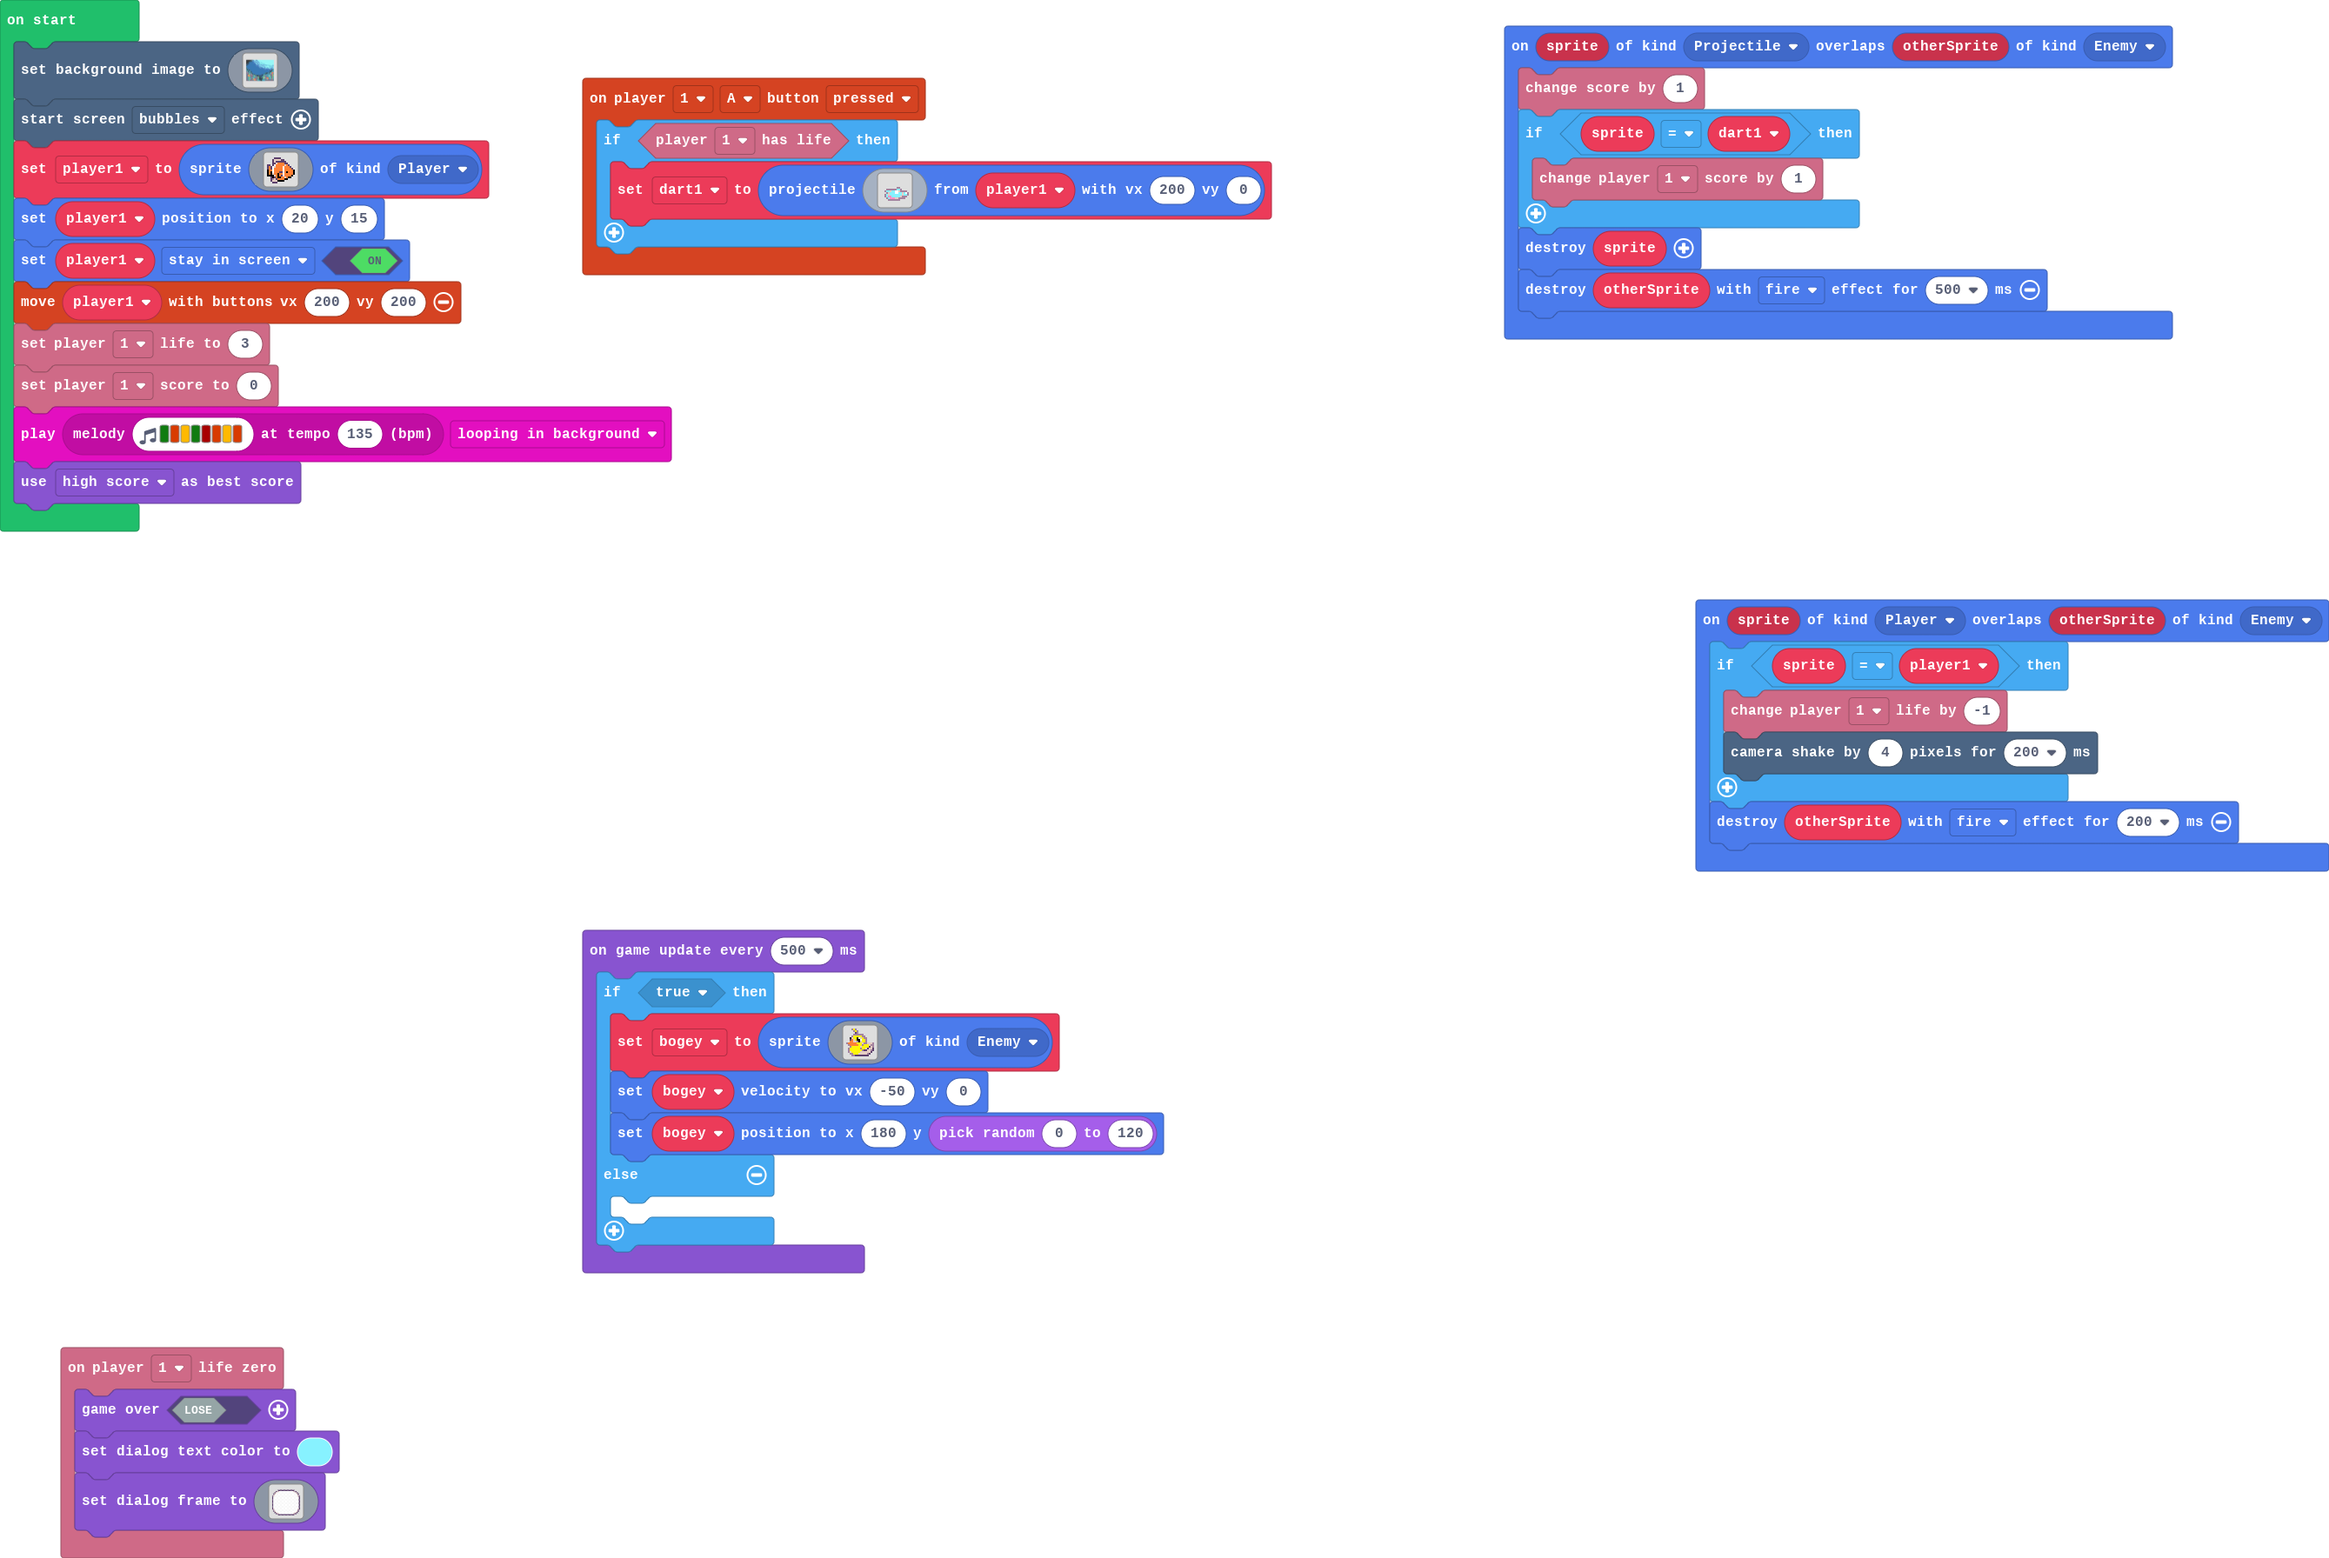
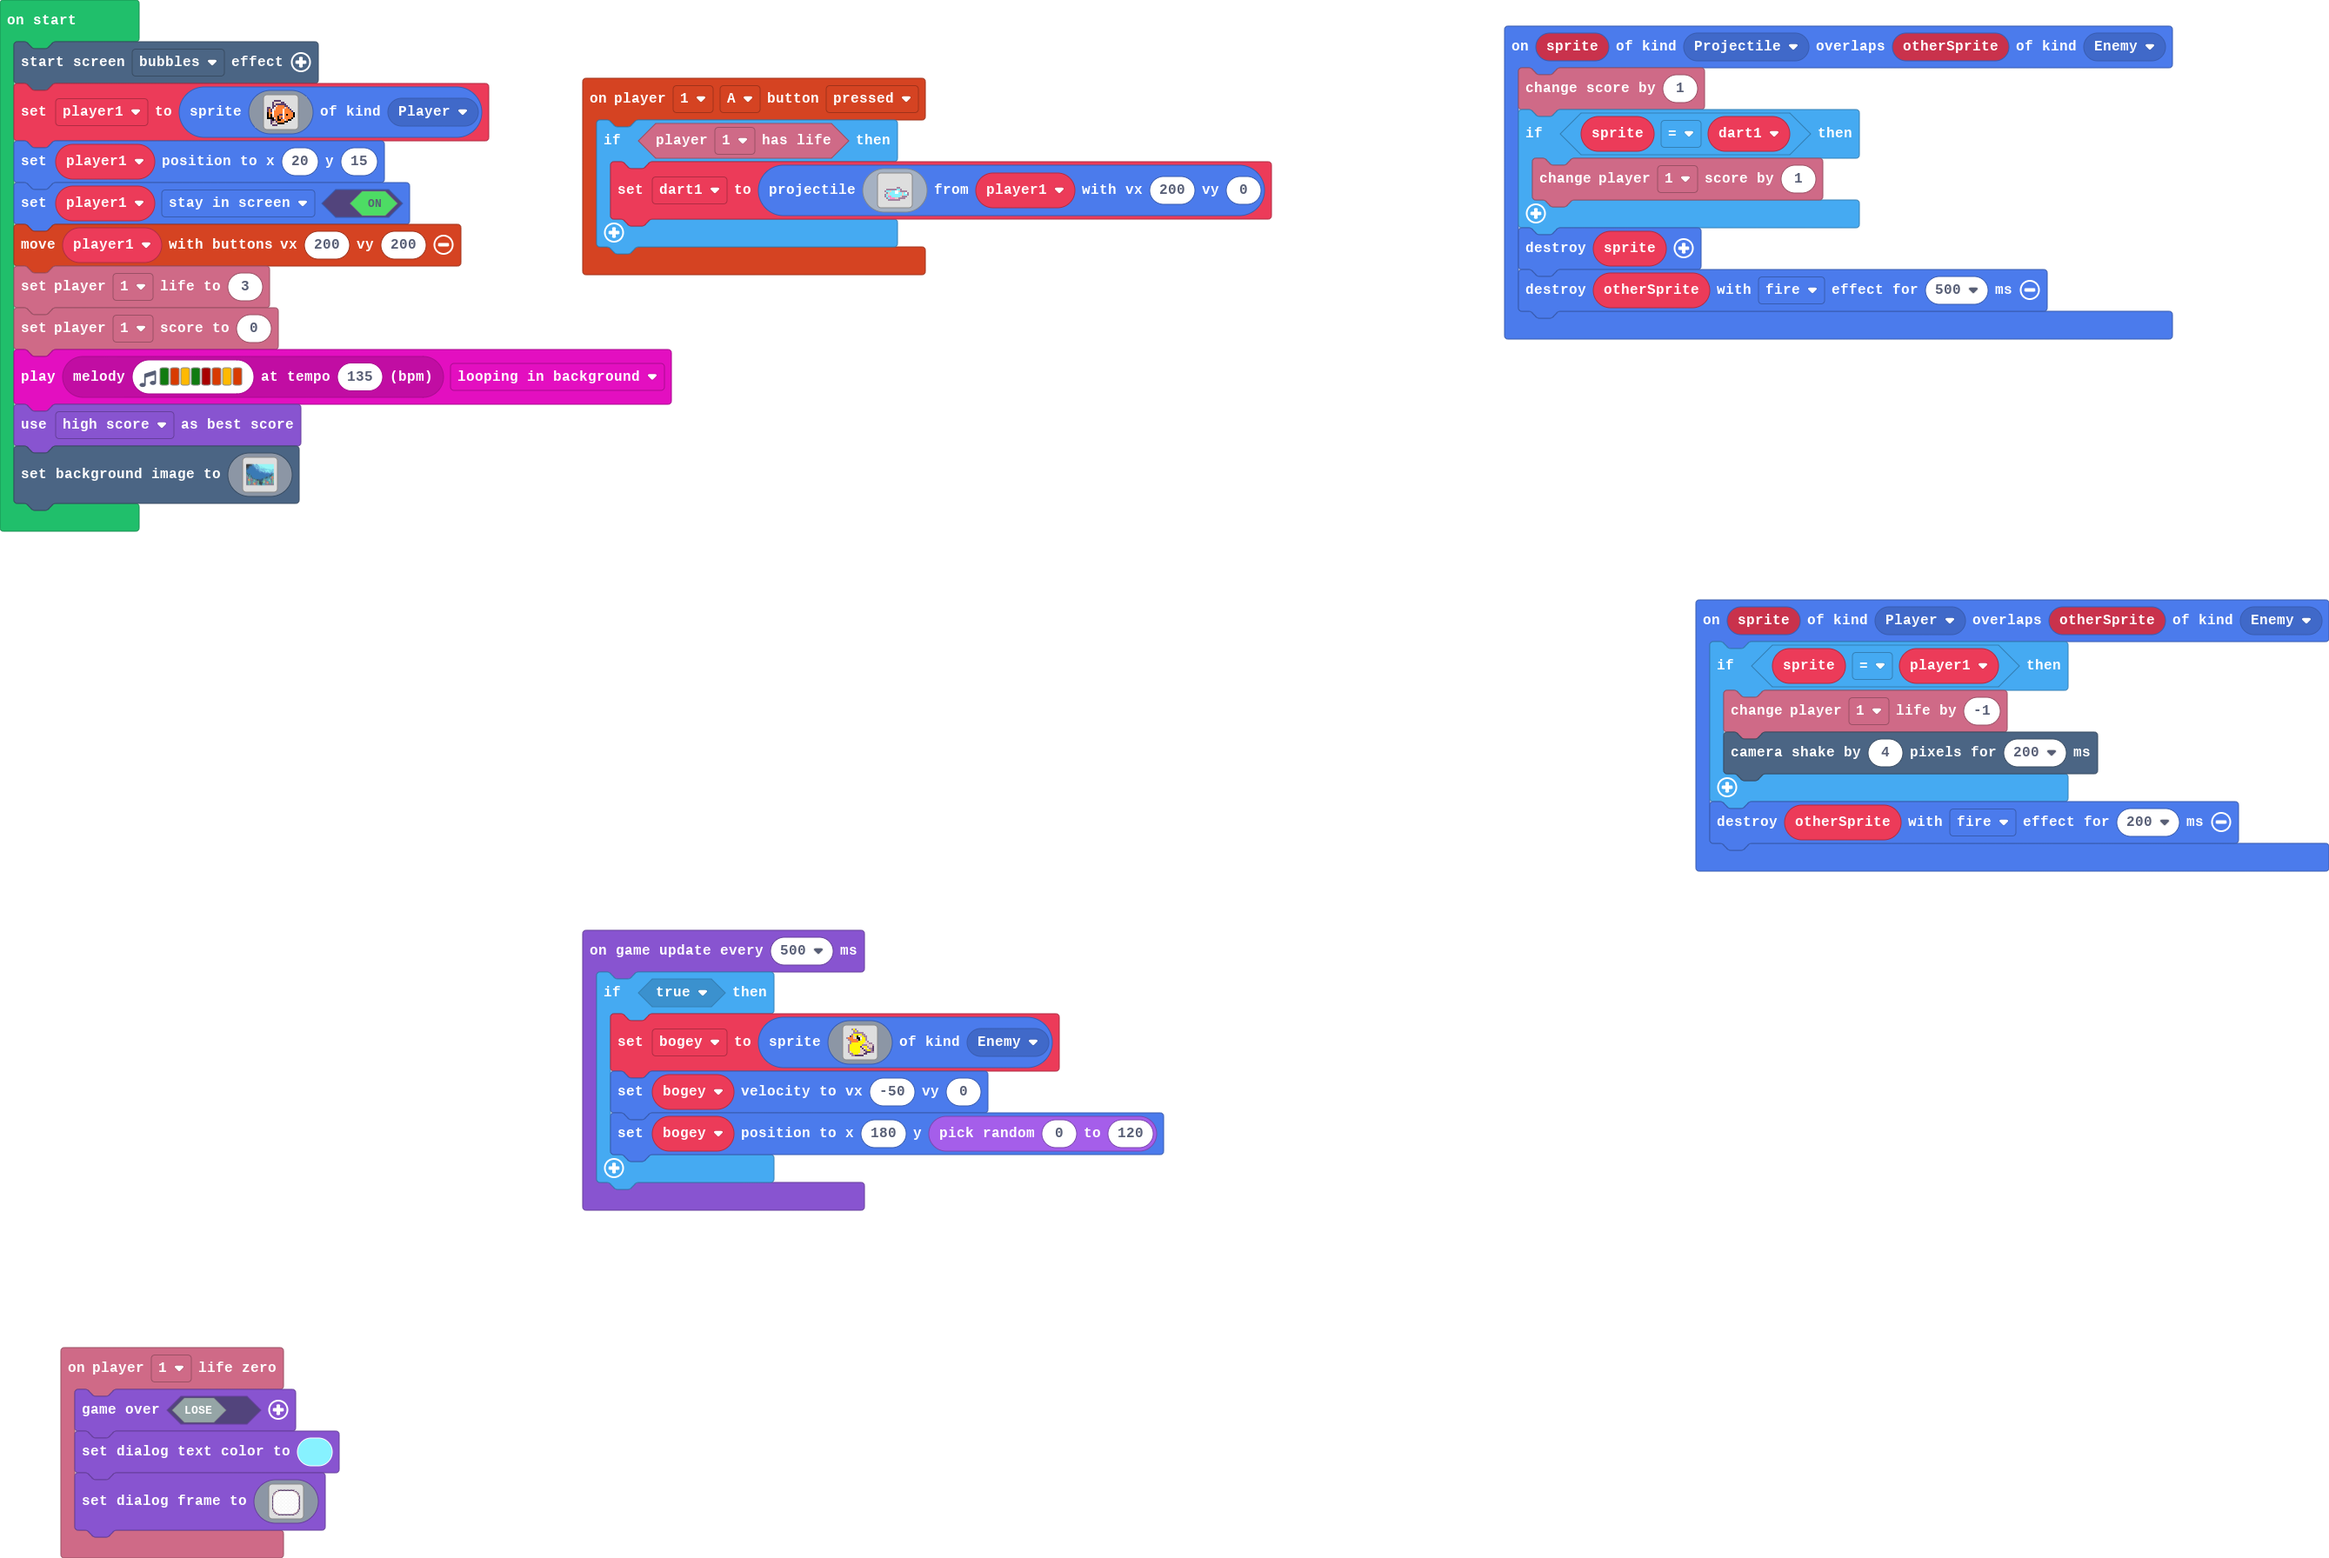
Update main.blocks, main.ts

Changed region(s): [[0.0, 0.0312, 0.3099, 0.3438], [0.2479, 0.75, 0.3719, 0.8438]]

diff --git a/main.ts b/main.ts
@@ -68,6 +68,32 @@ sprites.onOverlap(SpriteKind.Player, SpriteKind.Enemy, function (sprite, otherSp
 let bogey: Sprite = null
 let dart1: Sprite = null
 let player1: Sprite = null
+effects.bubbles.startScreenEffect()
+player1 = sprites.create(img`
+    . . . . . . . . . . . . . . . . 
+    . . . . c c c c . . . . . . . . 
+    . . . c d d d d c c . . . . . . 
+    . . . c d c c c c c c . . . . . 
+    . . . c c d 4 4 4 4 c c . . . . 
+    c c . c 1 4 4 4 4 4 d 4 c . . . 
+    c 4 c 1 d 4 4 4 4 1 4 4 4 c . . 
+    c 4 c 1 4 4 4 4 4 1 4 4 4 4 c . 
+    f 4 4 1 4 4 4 4 4 1 4 4 4 4 4 f 
+    f 4 f 1 4 4 4 c c 1 4 f 4 4 4 f 
+    f 4 f d 4 4 f 4 4 1 4 4 4 4 4 f 
+    f f f f d 4 f 4 c 1 4 4 4 4 f . 
+    . . c f c 4 f f 4 4 d 4 f f . . 
+    . . c b d c 4 4 4 4 f f . . . . 
+    . . c d d d f f f f . . . . . . 
+    . . . c c c . . . . . . . . . . 
+    `, SpriteKind.Player)
+player1.setPosition(20, 15)
+player1.setFlag(SpriteFlag.StayInScreen, true)
+controller.moveSprite(player1, 200, 200)
+info.player1.setLife(3)
+info.player1.setScore(0)
+music.play(music.stringPlayable("G B A G C5 B A B ", 135), music.PlaybackMode.LoopingInBackground)
+game.setGameOverScoringType(game.ScoringType.HighScore)
 scene.setBackgroundImage(img`
[2 lines of base64/hex data omitted]
@@ -190,55 +216,27 @@ scene.setBackgroundImage(img`
[2 lines of base64/hex data omitted]
     `)
-effects.bubbles.startScreenEffect()
-player1 = sprites.create(img`
-    . . . . . . . . . . . . . . . . 
-    . . . . c c c c . . . . . . . . 
-    . . . c d d d d c c . . . . . . 
-    . . . c d c c c c c c . . . . . 
-    . . . c c d 4 4 4 4 c c . . . . 
-    c c . c 1 4 4 4 4 4 d 4 c . . . 
-    c 4 c 1 d 4 4 4 4 1 4 4 4 c . . 
-    c 4 c 1 4 4 4 4 4 1 4 4 4 4 c . 
-    f 4 4 1 4 4 4 4 4 1 4 4 4 4 4 f 
-    f 4 f 1 4 4 4 c c 1 4 f 4 4 4 f 
-    f 4 f d 4 4 f 4 4 1 4 4 4 4 4 f 
-    f f f f d 4 f 4 c 1 4 4 4 4 f . 
-    . . c f c 4 f f 4 4 d 4 f f . . 
-    . . c b d c 4 4 4 4 f f . . . . 
-    . . c d d d f f f f . . . . . . 
-    . . . c c c . . . . . . . . . . 
-    `, SpriteKind.Player)
-player1.setPosition(20, 15)
-player1.setFlag(SpriteFlag.StayInScreen, true)
-controller.moveSprite(player1, 200, 200)
-info.player1.setLife(3)
-info.player1.setScore(0)
-music.play(music.stringPlayable("G B A G C5 B A B ", 135), music.PlaybackMode.LoopingInBackground)
-game.setGameOverScoringType(game.ScoringType.HighScore)
 game.onUpdateInterval(500, function () {
     if (true) {
         bogey = sprites.create(img`
             . . . b 5 b . . . . . . . . . . 
             . . . . b 5 b . . . . . . . . . 
-            . . . . . c b . . . . . . . . . 
             . . . . b b b b b b . . . . . . 
             . . . b 5 5 5 5 5 b b . . . . . 
-            . . f d 5 5 f 1 d 5 b b . . . . 
-            . . c 4 d 5 f f 1 5 5 b . . . . 
-            . . 4 4 d d b f d 5 5 b . . . . 
-            b 4 4 4 4 4 5 5 5 d b b d d d b 
-            . b 4 4 4 4 4 5 5 b 5 5 5 d b b 
-            . . b 5 5 5 5 5 d 5 5 5 5 c d b 
-            . b 5 5 5 5 5 5 b 5 5 d c d d c 
-            . b 5 5 5 5 5 5 5 b c c d d b c 
-            . b d 5 5 5 5 5 d d d d d d c . 
-            . . b b 5 5 5 d d d d d b c . . 
-            . . . b b c c c c c c c c . . . 
+            . . c 4 d 5 f 1 d 5 b b . . . . 
+            b 4 4 4 d d f f 1 5 5 b . . . . 
+            . b 4 4 4 4 b f d 5 5 b . . . . 
+            . . b 4 4 4 4 5 5 5 5 d b . . . 
+            . . b 5 5 5 5 5 5 5 d d d b b . 
+            . b 5 5 5 5 5 5 5 b b b d d d b 
+            . b 5 5 5 5 5 5 c d 5 5 b d d c 
+            . b 5 5 5 5 5 5 d c d 5 d b b c 
+            . b 5 5 5 5 5 5 d d c b 5 5 b c 
+            . b d 5 5 5 5 5 d d d c c c b b 
+            . . b b 5 5 5 d d d c c . . . . 
+            . . . b b c c c c c . . . . . . 
             `, SpriteKind.Enemy)
         bogey.setVelocity(-50, 0)
         bogey.setPosition(180, randint(0, 120))
-    } else {
-    	
     }
 })
